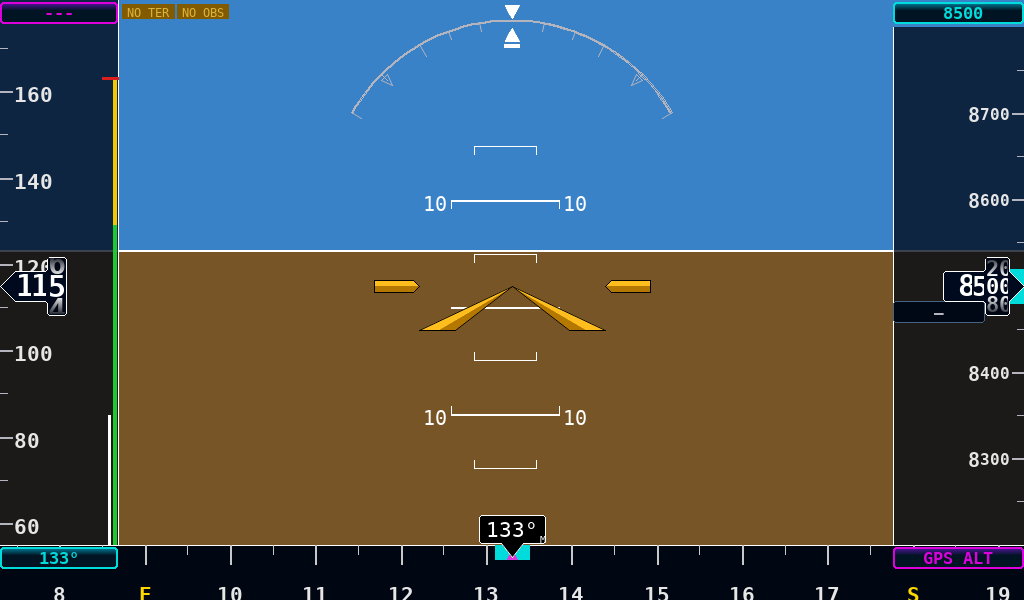
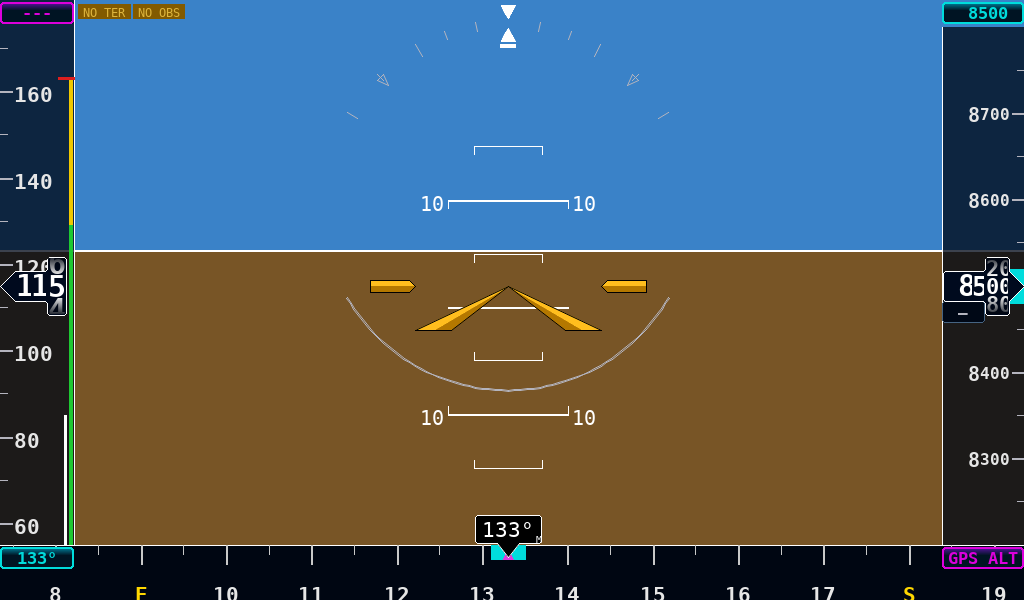
Fix roll arc, tape widths, centering, and heading bug artifact
Roll arc: Replace pygame.draw.arc (jagged rasteriser) with two
concentric anti-aliased polylines (60 segments) for a smooth 2px arc
on all display sizes.

Tape widths: Keep SPD_W=74 and ALT_W=82 at their hand-tuned pixel
sizes instead of scaling linearly.  Extra horizontal pixels on
1024x600 go to a wider AI region rather than fatter tapes.

Centering: CX is now the centre of the AI region (between the tapes)
rather than DISPLAY_W/2.  This aligns the aircraft symbol, roll arc,
and pitch ladder on the same vertical axis.

Heading bug artifact: Treat hdg_bug=0 as "not set" so no magenta
chevron is drawn at 000 degrees on startup.

Font scale uses _S_MIN (shorter axis) to avoid oversized text on
wide displays.

https://claude.ai/code/session_018sBLgJ7ZVU7xYH4qxt6x56

diff --git a/pi4/pfd.py b/pi4/pfd.py
@@ -741,13 +741,20 @@ def draw_roll_arc(surf, roll):
     cx, cy = CX, ROLL_CY
 
     # ── Arc: 120° span centred at 12 o'clock, rotated by roll ────────────────
-    # Our angle convention: 0=right, CW positive, Y-down (standard math / pygame cos/sin).
-    # pygame.draw.arc uses mathematical CCW from right (Y-up).  Conversion: negate.
-    # Arc spans -150+roll … -30+roll in our convention → 30-roll … 150-roll in pygame.
-    arc_start = math.radians(30  - roll)
-    arc_stop  = math.radians(150 - roll)
-    arc_rect  = pygame.Rect(cx - ROLL_R, cy - ROLL_R, ROLL_R * 2, ROLL_R * 2)
-    pygame.draw.arc(surf, LTGREY, arc_rect, arc_start, arc_stop, 2)
+    # Anti-aliased polyline instead of pygame.draw.arc (which rasterises poorly).
+    # Draw two concentric AA polylines offset by 1px for a clean 2px-wide arc.
+    _ARC_STEPS = 60   # 60 segments for a 120° arc = 2° per segment
+    arc_pts_outer = []
+    arc_pts_inner = []
+    for i in range(_ARC_STEPS + 1):
+        ang = math.radians(-150 + roll + i * 120.0 / _ARC_STEPS)
+        cos_a, sin_a = math.cos(ang), math.sin(ang)
+        arc_pts_outer.append((int(cx + (ROLL_R + 1) * cos_a),
+                              int(cy - (ROLL_R + 1) * sin_a)))
+        arc_pts_inner.append((int(cx + ROLL_R * cos_a),
+                              int(cy - ROLL_R * sin_a)))
+    pygame.draw.aalines(surf, LTGREY, False, arc_pts_outer)
+    pygame.draw.aalines(surf, LTGREY, False, arc_pts_inner)
 
     # ── Tick marks (10 trig evaluations instead of 484) ──────────────────────
     for deg2, length in [(10, 9), (20, 9), (30, 13),
@@ -1101,7 +1108,8 @@ def draw_heading_tape(surf, hdg, hdg_bug=None, track=None, gps_ok=False, hdg_src
             _text(surf, lbl, 17, col, bold=True, cx=x, y=HDG_Y + HDG_H - 18)
 
     # Heading bug — color reflects source: magenta=GPS track, cyan=magnetic.
-    if hdg_bug is not None:
+    # hdg_bug=0 means "not set" (same convention as alt_bug and spd_bug).
+    if hdg_bug is not None and hdg_bug != 0:
         off = ((hdg_bug - hdg + 180) % 360) - 180
         hbx = int(CX + off * PX_PER_DEG)
         hbx = max(SPD_W, min(ALT_X, hbx))   # clamp to inner edges of tap buttons

diff --git a/pi_zero/pfd.py b/pi_zero/pfd.py
@@ -705,13 +705,20 @@ def draw_roll_arc(surf, roll):
     cx, cy = CX, ROLL_CY
 
     # ── Arc: 120° span centred at 12 o'clock, rotated by roll ────────────────
-    # Our angle convention: 0=right, CW positive, Y-down (standard math / pygame cos/sin).
-    # pygame.draw.arc uses mathematical CCW from right (Y-up).  Conversion: negate.
-    # Arc spans -150+roll … -30+roll in our convention → 30-roll … 150-roll in pygame.
-    arc_start = math.radians(30  - roll)
-    arc_stop  = math.radians(150 - roll)
-    arc_rect  = pygame.Rect(cx - ROLL_R, cy - ROLL_R, ROLL_R * 2, ROLL_R * 2)
-    pygame.draw.arc(surf, LTGREY, arc_rect, arc_start, arc_stop, 2)
+    # Anti-aliased polyline instead of pygame.draw.arc (which rasterises poorly).
+    # Draw two concentric AA polylines offset by 1px for a clean 2px-wide arc.
+    _ARC_STEPS = 60   # 60 segments for a 120° arc = 2° per segment
+    arc_pts_outer = []
+    arc_pts_inner = []
+    for i in range(_ARC_STEPS + 1):
+        ang = math.radians(-150 + roll + i * 120.0 / _ARC_STEPS)
+        cos_a, sin_a = math.cos(ang), math.sin(ang)
+        arc_pts_outer.append((int(cx + (ROLL_R + 1) * cos_a),
+                              int(cy - (ROLL_R + 1) * sin_a)))
+        arc_pts_inner.append((int(cx + ROLL_R * cos_a),
+                              int(cy - ROLL_R * sin_a)))
+    pygame.draw.aalines(surf, LTGREY, False, arc_pts_outer)
+    pygame.draw.aalines(surf, LTGREY, False, arc_pts_inner)
 
     # ── Tick marks (10 trig evaluations instead of 484) ──────────────────────
     for deg2, length in [(10, 9), (20, 9), (30, 13),
@@ -1065,7 +1072,8 @@ def draw_heading_tape(surf, hdg, hdg_bug=None, track=None, gps_ok=False, hdg_src
             _text(surf, lbl, 17, col, bold=True, cx=x, y=HDG_Y + HDG_H - 18)
 
     # Heading bug — color reflects source: magenta=GPS track, cyan=magnetic.
-    if hdg_bug is not None:
+    # hdg_bug=0 means "not set" (same convention as alt_bug and spd_bug).
+    if hdg_bug is not None and hdg_bug != 0:
         off = ((hdg_bug - hdg + 180) % 360) - 180
         hbx = int(CX + off * PX_PER_DEG)
         hbx = max(SPD_W, min(ALT_X, hbx))   # clamp to inner edges of tap buttons

diff --git a/pi4/config.py b/pi4/config.py
@@ -74,14 +74,14 @@ TARGET_FPS     = 30
 DISPLAY_ROTATE = 0      # degrees CCW: 0, 90, 180, 270
 
 # ── Dynamic layout ───────────────────────────────────────────────────────────
-# All layout constants are computed as proportions of the display resolution.
-# Reference design: 640×480.  Constants scale linearly from there.
-_SX = DISPLAY_W / 640.0   # horizontal scale factor
+# Tape widths and heading strip height stay at their hand-tuned pixel sizes.
+# Extra horizontal pixels go to the wider AI region.  Vertical elements scale
+# with display height so the heading strip and top strip remain proportional.
 _SY = DISPLAY_H / 480.0   # vertical scale factor
 
 SPD_X      = 0
-SPD_W      = int(74  * _SX)
-ALT_W      = int(82  * _SX)
+SPD_W      = 74                          # fixed — hand-tuned tape width
+ALT_W      = 82                          # fixed — hand-tuned tape width
 ALT_X      = DISPLAY_W - ALT_W
 HDG_H      = int(44  * _SY)
 HDG_Y      = DISPLAY_H - HDG_H
@@ -89,9 +89,9 @@ TAPE_TOP   = int(22  * _SY)
 TAPE_BOT   = HDG_Y
 TAPE_H     = TAPE_BOT - TAPE_TOP
 TAPE_MID   = (TAPE_TOP + TAPE_BOT) // 2
-CX         = DISPLAY_W // 2
+CX         = SPD_W + (DISPLAY_W - SPD_W - ALT_W) // 2  # centre of AI region
 CY         = TAPE_MID
-_S_MIN     = min(_SX, _SY)             # use shorter axis to keep arc circular
+_S_MIN     = min(DISPLAY_W / 640.0, _SY)  # shorter axis keeps arc circular
 ROLL_R     = int(148 * _S_MIN)
 ROLL_CY    = ROLL_R + int(16 * _S_MIN)
 BALL_Y     = HDG_Y - int(30 * _SY)
@@ -103,7 +103,7 @@ AI_Y = TAPE_TOP
 AI_H = TAPE_H
 
 # Font scale factor — used by pfd.py to scale all font sizes
-FONT_SCALE = min(_SX, _SY)
+FONT_SCALE = _S_MIN
 
 # ── SVT / Terrain ────────────────────────────────────────────────────────────
 _HERE         = os.path.dirname(os.path.abspath(__file__))

diff --git a/pi_zero/config.py b/pi_zero/config.py
@@ -41,7 +41,7 @@ TAPE_TOP   = 22
 TAPE_BOT   = HDG_Y                       # 436
 TAPE_H     = TAPE_BOT - TAPE_TOP         # 414
 TAPE_MID   = (TAPE_TOP + TAPE_BOT) // 2 # 229
-CX         = DISPLAY_W // 2             # 320
+CX         = SPD_W + (DISPLAY_W - SPD_W - ALT_W) // 2  # 316 — centre of AI
 CY         = TAPE_MID                   # 229
 ROLL_R     = 148
 ROLL_CY    = ROLL_R + 16                # 164
